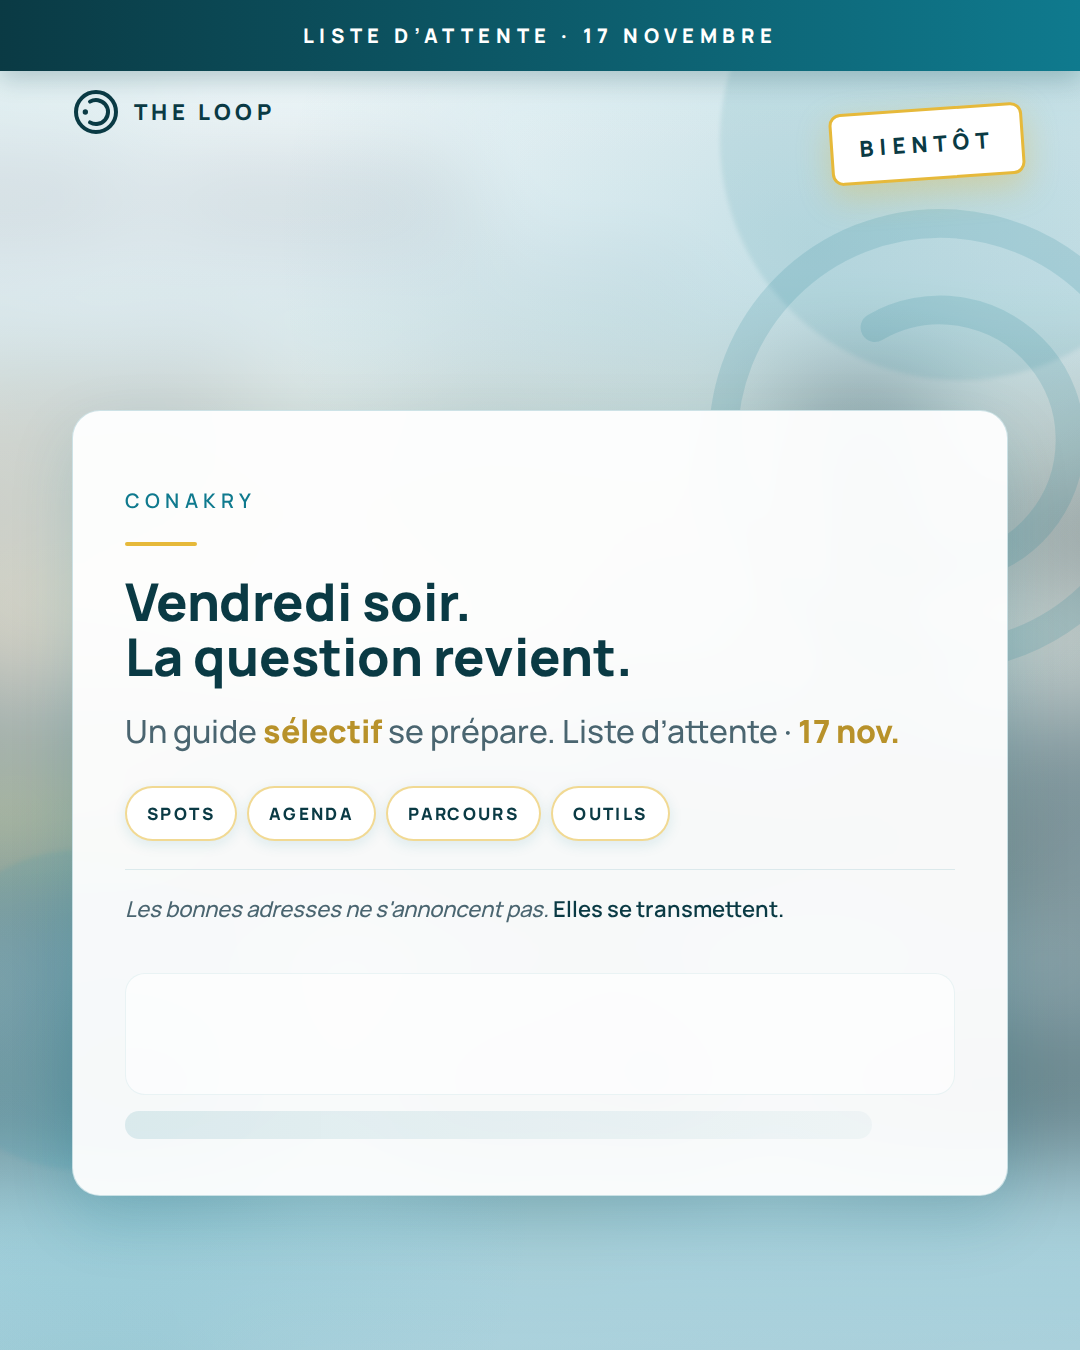
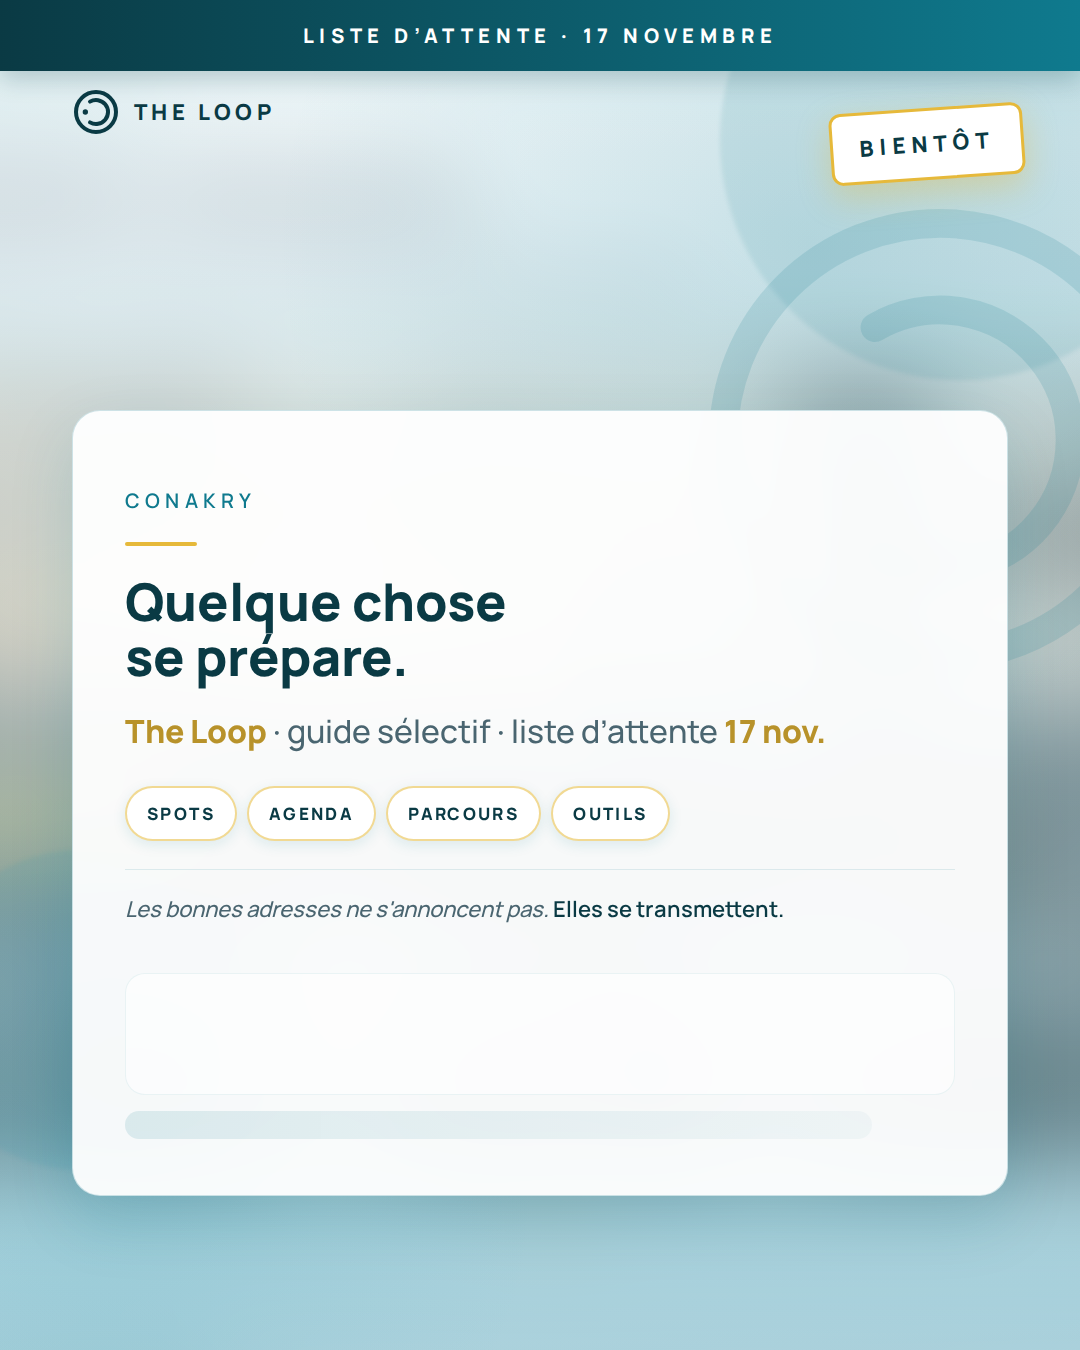
Com 3/11: visuels alignés mardi (plus vendredi/week-end)

Changed region(s): [[0.1222, 0.4356, 0.825, 0.56]]

diff --git a/docs/communication/lancement-2026/export-visuels-pack-acte-a-v4-light.html b/docs/communication/lancement-2026/export-visuels-pack-acte-a-v4-light.html
@@ -314,8 +314,8 @@
       <div class="card">
         <p class="ey">Conakry</p>
         <div class="rule"></div>
-        <h1 class="h sm">Vendredi soir.<br />La question revient.</h1>
-        <p class="p">Un guide <span class="gold">sélectif</span> se prépare. Liste d’attente · <span class="gold">17 nov.</span></p>
+        <h1 class="h sm">Quelque chose<br />se prépare.</h1>
+        <p class="p"><span class="gold">The Loop</span> · guide sélectif · liste d’attente <span class="gold">17 nov.</span></p>
         <div class="pillars">
           <span>Spots</span><span>Agenda</span><span>Parcours</span><span>Outils</span>
         </div>
@@ -342,21 +342,21 @@
         <span>The Loop · Conakry</span>
       </div>
       <div class="reel-convo" aria-hidden="true">
-        <div class="bubble them">On se voit où vendredi ?<span class="sk"></span></div>
-        <div class="bubble me">Comme d’hab… t’as une idée ?<span class="sk"></span></div>
-        <div class="bubble them">Même endroit que la dernière fois ?<span class="sk"></span></div>
+        <div class="bubble them">Encore une liste « top 10 »…<span class="sk"></span></div>
+        <div class="bubble me">Tu filtres comment, toi ?<span class="sk"></span></div>
+        <div class="bubble them">Un seul repère, ce serait bien.<span class="sk"></span></div>
       </div>
       <div class="card">
-        <p class="ey">La question revient</p>
+        <p class="ey">Conakry</p>
         <div class="rule"></div>
-        <h1 class="h sm">On va où<br />ce week-end ?</h1>
-        <p class="p">Même fil. Mêmes habitudes. Bientôt, un repère — pas un énième bruit.</p>
+        <h1 class="h sm">Quelque chose<br />se prépare.</h1>
+        <p class="p">Spots · agenda · parcours · outils — <span class="gold">sélectif</span>, pas un énième fil bruyant.</p>
         <div class="pillars">
           <span>Spots</span><span>Agenda</span><span>Parcours</span><span>Outils</span>
         </div>
-        <span class="pill-date">17 nov. · réserve ta place</span>
+        <span class="pill-date">17 nov. · liste d’attente</span>
       </div>
-      <p class="reel-foot">Guide sélectif · Conakry</p>
+      <p class="reel-foot">The Loop · Bientôt</p>
     </div>
   </div>
 

diff --git a/docs/communication/lancement-2026/fiches/01-2026-11-03.md b/docs/communication/lancement-2026/fiches/01-2026-11-03.md
@@ -6,9 +6,16 @@
 ## Règle
 **Aucune capture app** — storytelling avant produit.
 
+## Texte sur l’image (feed + Reels)
+- Surtitre : **Conakry**
+- Titre : **Quelque chose se prépare.**
+- Bas : **The Loop** · Bientôt · piliers · **17 nov.** (liste d’attente — pas « vendredi / week-end », réservé au **6/11**)
+
 ## Visuels (v4 clair — aligné app)
-- Feed : `exports-png-v4-light/POST_3-11_feed-PUBLIER-3nov.png` (bandeau + BIENTÔT + piliers)
-- Reels : `exports-png-v4-light/POST_3-11_reels-PUBLIER-3nov.png` (bandeau + fil type messages + carte + piliers)
+- Feed : `exports-png-v4-light/POST_3-11_feed-PUBLIER-3nov.png`
+- Reels (cover / montage optionnel) : `exports-png-v4-light/POST_3-11_reels-PUBLIER-3nov.png`
+
+Regénérer après edit HTML : `node scripts/export-slides-png-v4.mjs`
 ## Légende
 
 Conakry n’a pas besoin d’un énième fil bruyant.
@@ -17,7 +24,7 @@ Conakry n’a pas besoin d’un énième fil bruyant.
 
 Ce n’est **pas** l’ouverture aujourd’hui : la **liste d’attente** ouvre le **17 novembre**.
 
-## Story
-**La question revient.** · **17 nov.**
+## Story (option même jour)
+**Bientôt.** · **17 nov.** · pas de lien
 
 ## Pas de lien · pas d’aperçu app
